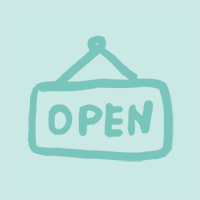
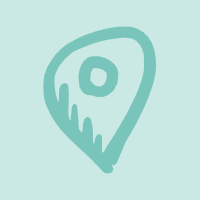
mapheader for locationoverview

Changed region(s): [[0.12, 0.12, 0.87, 0.87]]

diff --git a/app/assets/javascripts/controllers/locations.js b/app/assets/javascripts/controllers/locations.js
@@ -32,7 +32,15 @@ APP.controllers.locations = (function() {
             event.preventDefault();
         });
 
-        if($("section.location-form").exists) {
+
+
+
+
+        if($("section.locations-overview").exists()) {
+            initLocationOverview();
+        }
+
+        if($("section.location-form").exists()) {
             initLocationForm();
         }
 
@@ -41,9 +49,22 @@ APP.controllers.locations = (function() {
 
     function initLocationForm() {
         $("#location_description").autogrow();
-        console.log("druan");
     }
 
+    function initLocationOverview() {
+        var map =  APP.components.graetzlMap;
+        var mapdata = jQuery('.locations-overview').data('mapdata');
+        map.init(function() {
+                map.showMapGraetzl(mapdata.graetzls, {
+                    style: $.extend(map.styles.rose, {
+                        weight: 4,
+                        fillOpacity: 0.2
+                    })
+                });
+
+            }
+        );
+    }
 
 // ---------------------------------------------------------------------- Public
 

diff --git a/app/assets/stylesheets/controllers/_location.scss b/app/assets/stylesheets/controllers/_location.scss
@@ -303,9 +303,6 @@ section.locations-overview {
   .cardBox {
     text-decoration: none;
     color: inherit;
-    &:hover {
-      color: $color-ambient-rosa;
-    }
   }
 }
 
